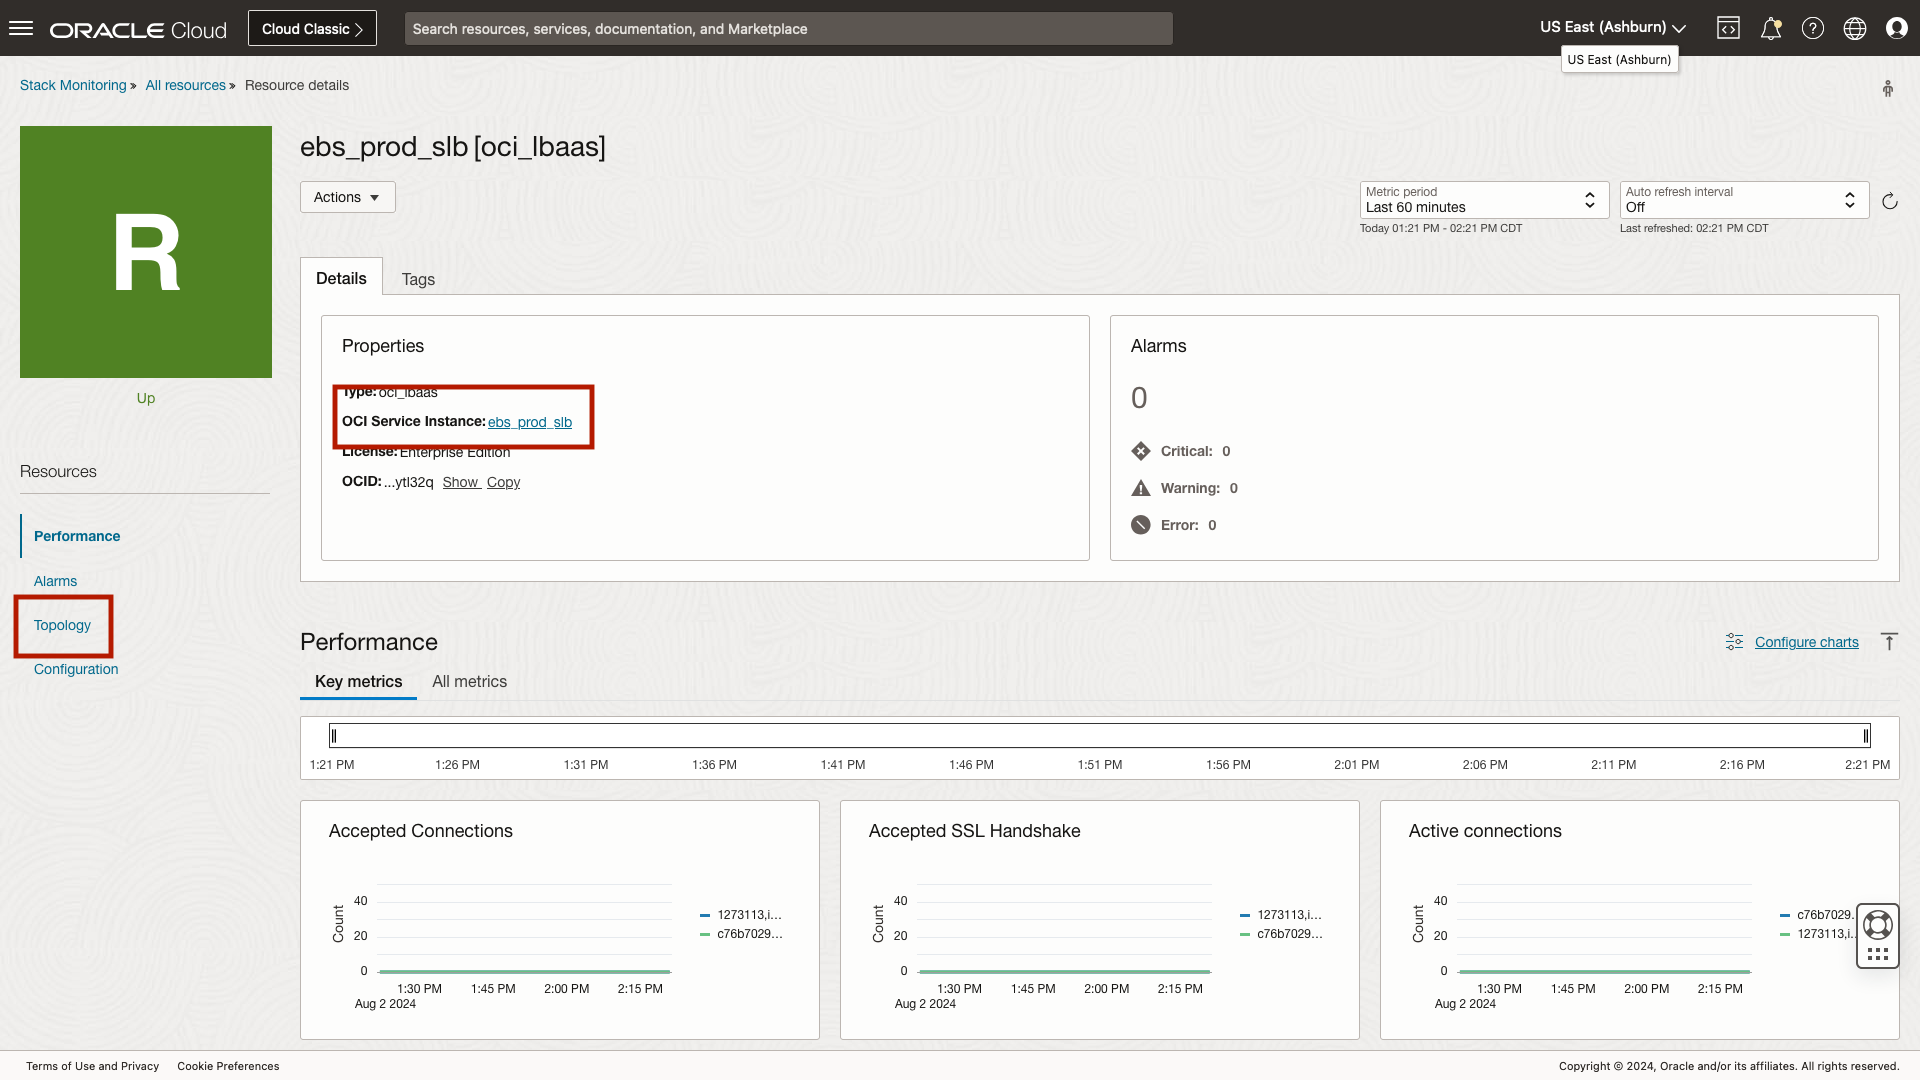
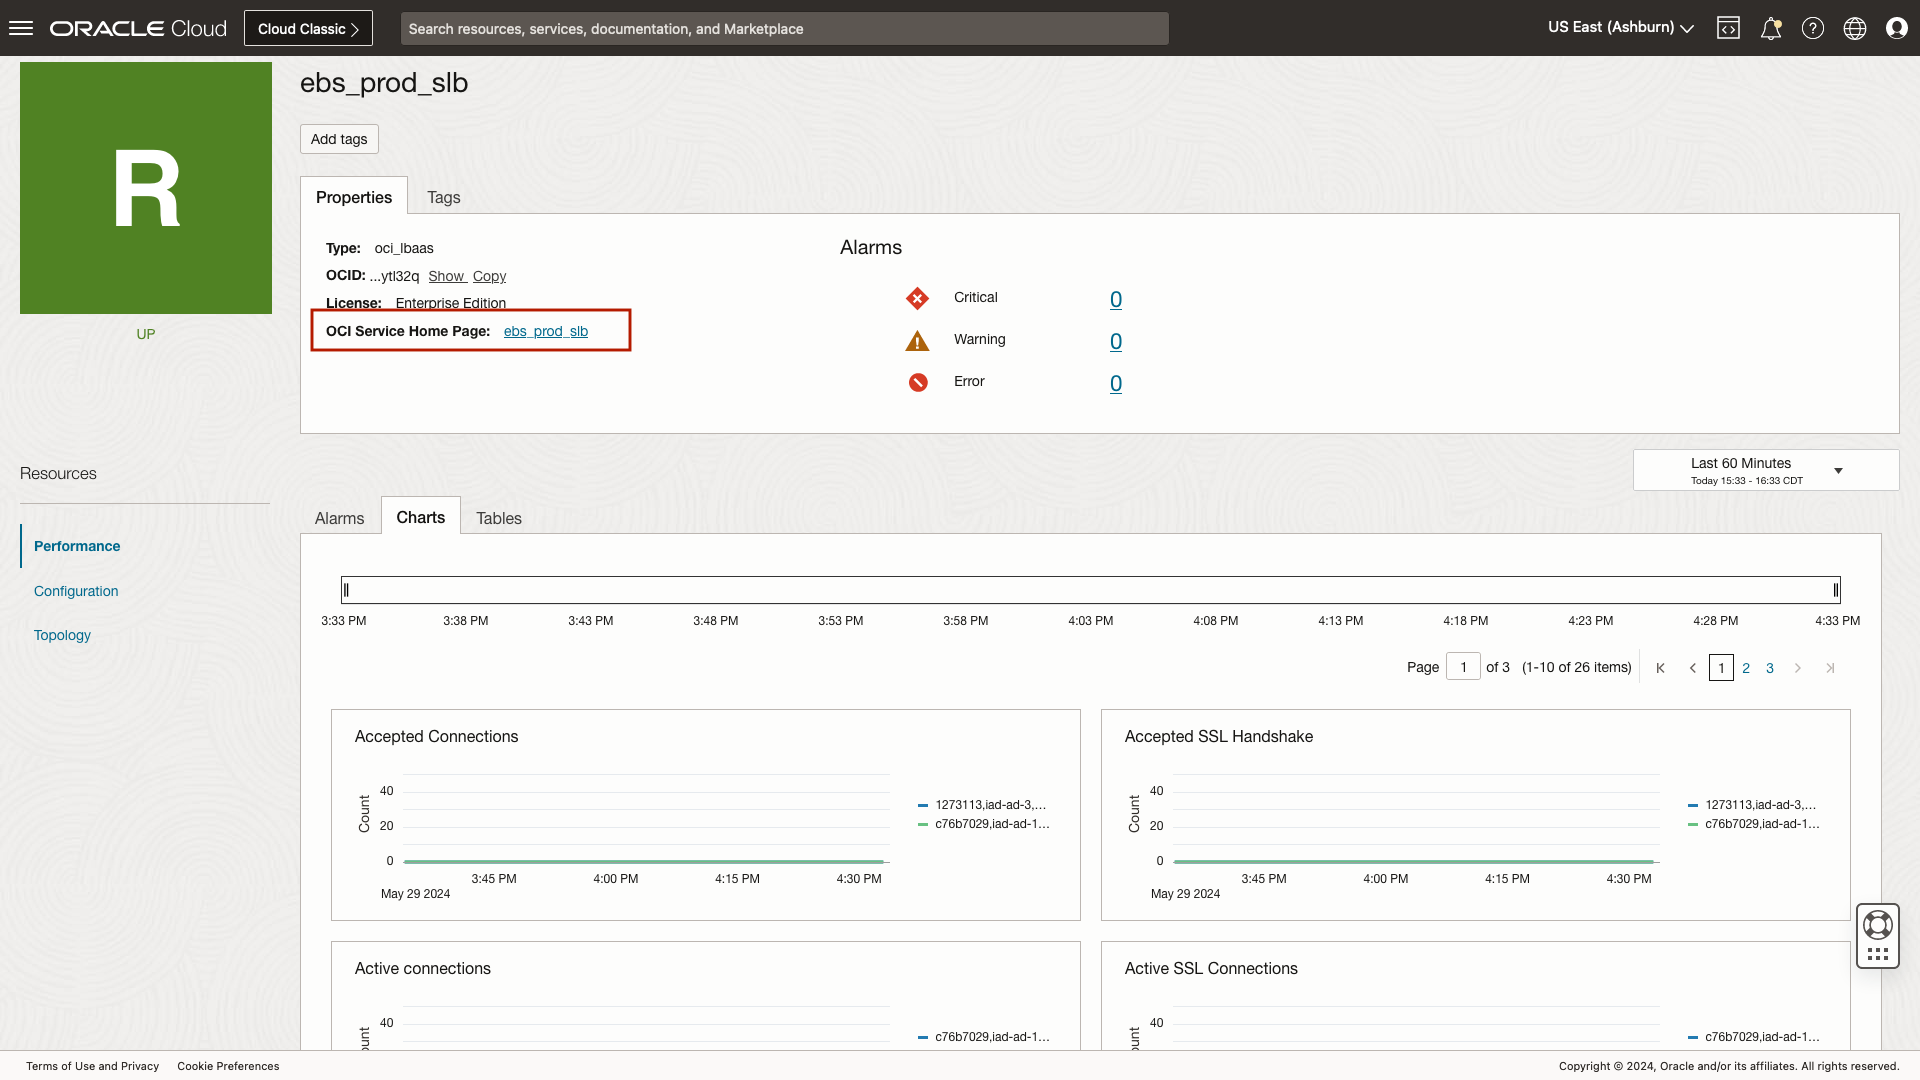
Removed unsused photo, updated photo image in md

diff --git a/oci-stack-monitoring-fundamentals/import-oci-services/import-oci-services.md b/oci-stack-monitoring-fundamentals/import-oci-services/import-oci-services.md
@@ -74,7 +74,7 @@ Estimated time: 10 minutes
 	
 	A helpful feature when triaging issues is the link to the OCI service resource home page. This link allows you to quickly navigate back to the load balancer's OCI page where you can alter the resource pool or restart a service. In this example using Stack Monitoring's topology, if we witness no activity on our EBS, we could quickly identify the WebLogic cluster that services EBS, then identify the load balancer in front of the cluster. Using the topology, simply click to navigate to the load balancer OCI service resource page and update the route configuration. All of this can be done without every typing or searching for a resource, simply follow the troubleshooting workflow.
 
-	![Load balancer home page, highlighting the link to the OCI service home page](images/3-3-import.png " ")
+	![Load balancer home page, highlighting the link to the OCI service home page](images/3-4-import.png " ")
 
 ## Task 4: Review the process of relating a load balancer to a WebLogic cluster to complete the topology.
 
